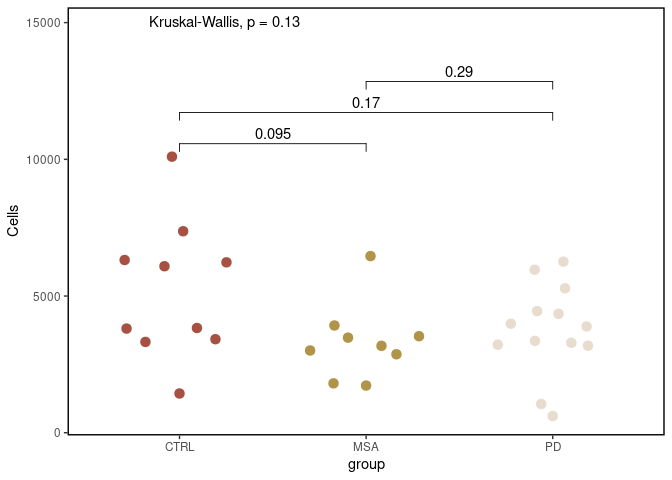
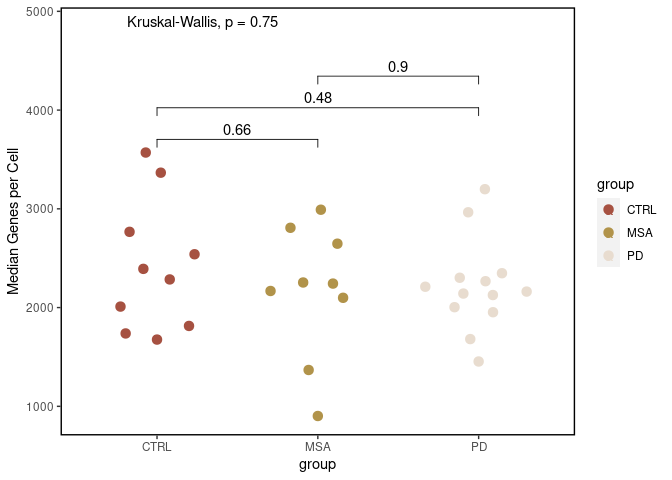
add median gene count plot from Xian #7

diff --git a/R/demo_CRMetrics_class.md b/R/demo_CRMetrics_class.md
@@ -142,6 +142,14 @@ class to `NULL`.
 crmetrics$comp_group <- NULL
 ```
 
+Instead of median UMIs, median number of genes can be expressed as well.
+
+``` r
+crmetrics$plot_median_gene("group")
+```
+
+![](demo_CRMetrics_class_files/figure-gfm/unnamed-chunk-10-1.png)<!-- -->
+
 Another plot that can be made from the summary metrics is number of
 cells.
 
@@ -149,7 +157,7 @@ cells.
 crmetrics$plot_cells("group")
 ```
 
-![](demo_CRMetrics_class_files/figure-gfm/unnamed-chunk-10-1.png)<!-- -->
+![](demo_CRMetrics_class_files/figure-gfm/unnamed-chunk-11-1.png)<!-- -->
 
 We can also create plots on statistics of the count matrices.  
 This requires to load the detailed metrics and will some time.
@@ -178,13 +186,13 @@ each sample.
 crmetrics$plot_gene_count()
 ```
 
-![](demo_CRMetrics_class_files/figure-gfm/unnamed-chunk-12-1.png)<!-- -->
+![](demo_CRMetrics_class_files/figure-gfm/unnamed-chunk-13-1.png)<!-- -->
 
 ``` r
 crmetrics$plot_umi_count()
 ```
 
-![](demo_CRMetrics_class_files/figure-gfm/unnamed-chunk-12-2.png)<!-- -->
+![](demo_CRMetrics_class_files/figure-gfm/unnamed-chunk-13-2.png)<!-- -->
 
 And of course add group information.
 
@@ -192,7 +200,7 @@ And of course add group information.
 crmetrics$plot_gene_count(comp_group = "group")
 ```
 
-![](demo_CRMetrics_class_files/figure-gfm/unnamed-chunk-13-1.png)<!-- -->
+![](demo_CRMetrics_class_files/figure-gfm/unnamed-chunk-14-1.png)<!-- -->
 
 ## 15q
 
@@ -249,13 +257,13 @@ crmetrics_15q <- CRMetrics$new(data_path = "/data/15q/counts_premrna/",
 crmetrics_15q$plot_median_umi(comp_group = "condition")
 ```
 
-![](demo_CRMetrics_class_files/figure-gfm/unnamed-chunk-18-1.png)<!-- -->
+![](demo_CRMetrics_class_files/figure-gfm/unnamed-chunk-19-1.png)<!-- -->
 
 ``` r
 crmetrics_15q$plot_median_umi(comp_group = "age")
 ```
 
-![](demo_CRMetrics_class_files/figure-gfm/unnamed-chunk-18-2.png)<!-- -->
+![](demo_CRMetrics_class_files/figure-gfm/unnamed-chunk-19-2.png)<!-- -->
 
 ``` r
 crmetrics_15q$add_detailed_metrics()
@@ -269,10 +277,10 @@ crmetrics_15q$add_detailed_metrics()
 crmetrics_15q$plot_gene_count(comp_group = "condition")
 ```
 
-![](demo_CRMetrics_class_files/figure-gfm/unnamed-chunk-20-1.png)<!-- -->
+![](demo_CRMetrics_class_files/figure-gfm/unnamed-chunk-21-1.png)<!-- -->
 
 ``` r
 crmetrics_15q$plot_umi_count(comp_group = "condition")
 ```
 
-![](demo_CRMetrics_class_files/figure-gfm/unnamed-chunk-20-2.png)<!-- -->
+![](demo_CRMetrics_class_files/figure-gfm/unnamed-chunk-21-2.png)<!-- -->
